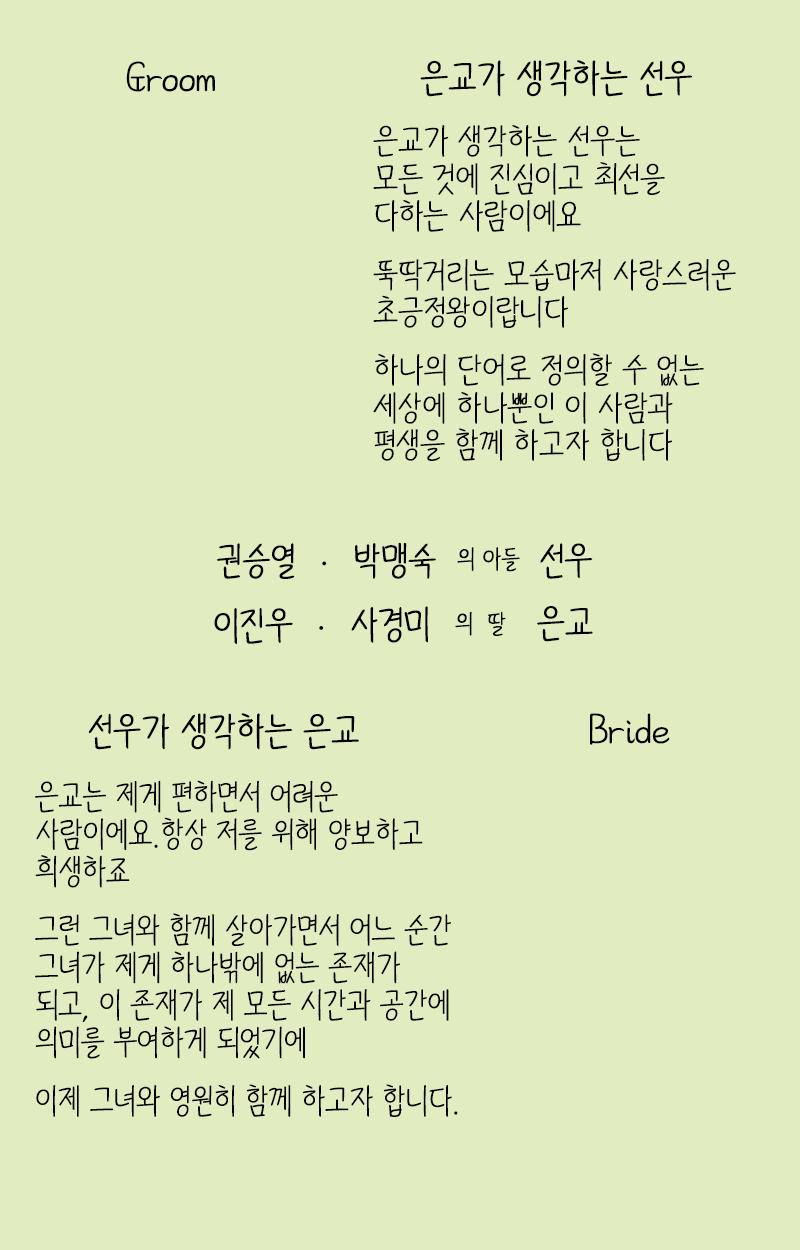
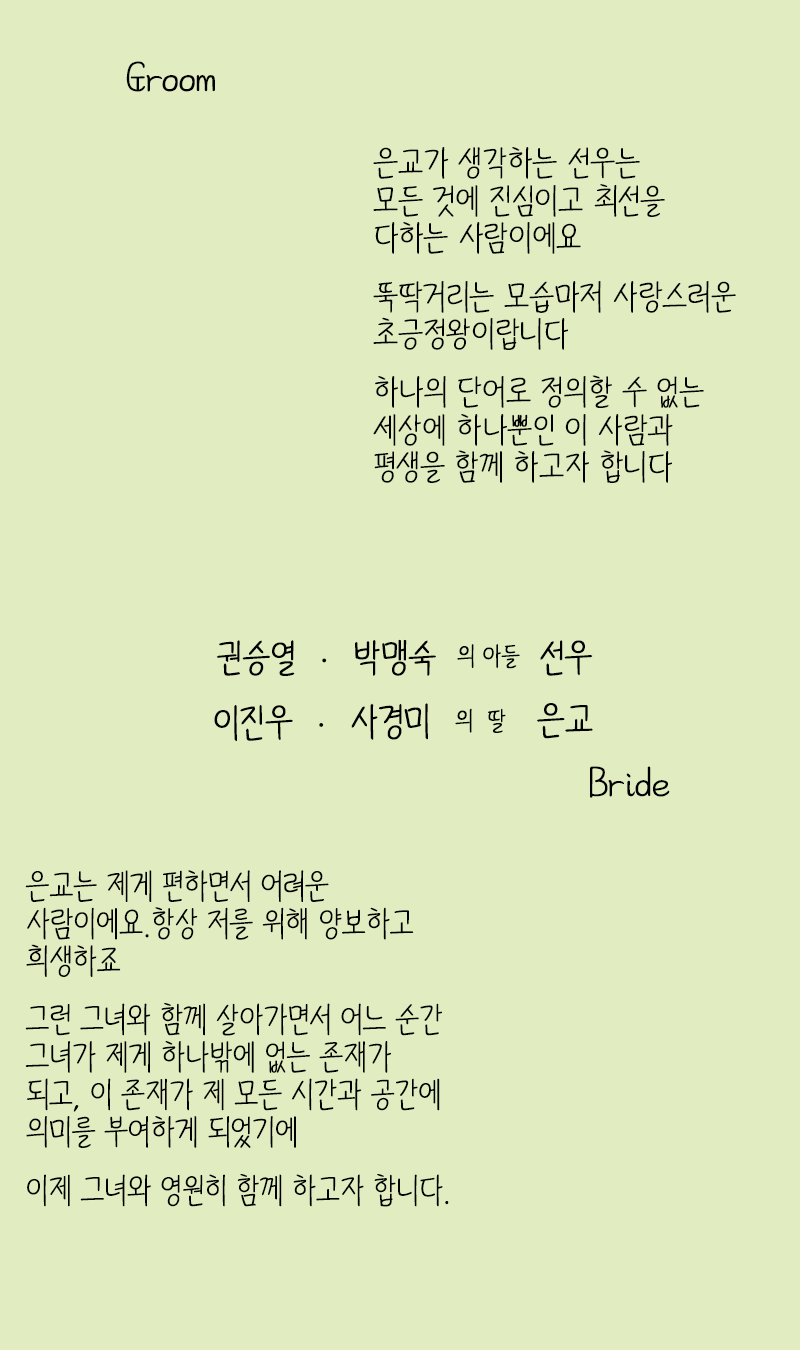
ypdate

diff --git a/css/section.css b/css/section.css
@@ -58,18 +58,18 @@ overflow-x:hidden;
 
 .intro_img_groom {
   position: absolute;
-  top: 12vw;
-  left: 5vw;
-  width: 35vw;
+  top: 13vw;
+  left: 3vw;
+  width: 40vw;
   z-index: 5;
   height: auto;
   border-radius: 30px;
 }
 .intro_img_bride {
   position: absolute;
-  top: 94vw;
-  left: 60vw;
-  width: 35vw;
+  top: 101vw;
+  left: 57vw;
+  width: 40vw;
   z-index: 5;
   height: auto;
   border-radius: 30px;
@@ -82,12 +82,12 @@ overflow-x:hidden;
   left: 0;
   width: 100%;
   height: auto;
-  margin-top: -4%;
+  margin-top: -50%;
 }
 
 .slider-container {
     position: absolute;
-    top: 15%;
+    top: 10%;
     left : 11%;
     width: 78%;
     height: auto;
